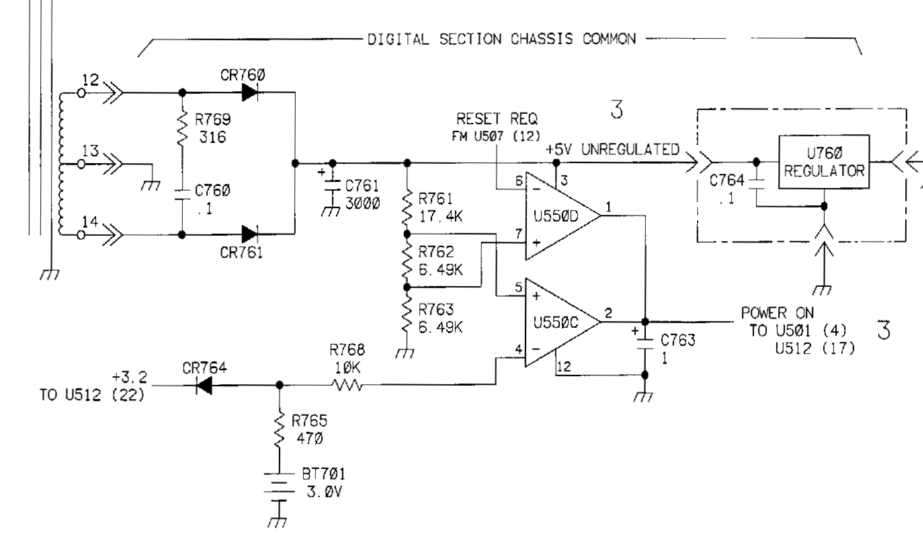
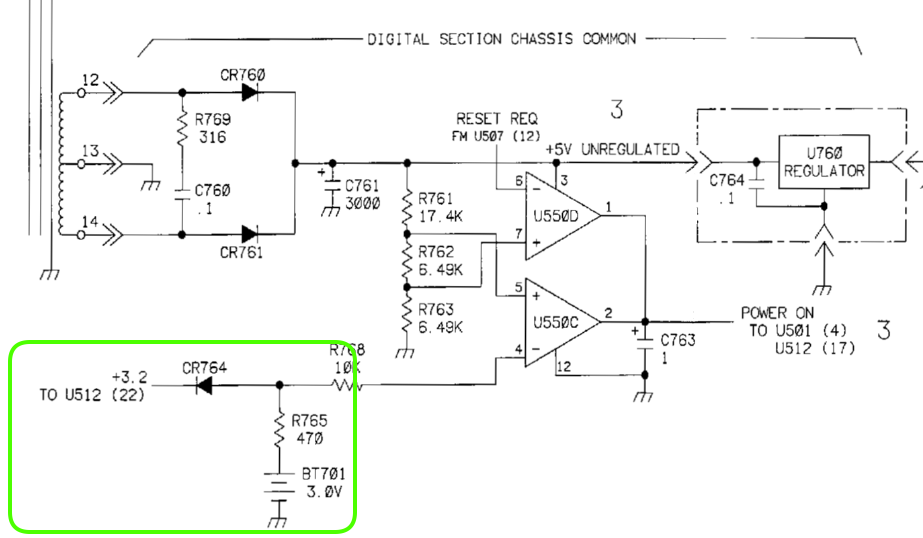
Capacitor replacement. WIP.

Changed region(s): [[0.0, 0.6245, 0.3944, 1.0]]

diff --git a/_drafts/2022-12-02-HP3478A-Multimeter.md b/_drafts/2022-12-02-HP3478A-Multimeter.md
@@ -1,6 +1,6 @@
 ---
 layout: post
-title: HP 3478A Multimeter RIFA Capacitors and Battery Replacement
+title: HP 3478A Multimeter Calibration Data Backup and Battery Replacement
 date:  2022-12-02 00:00:00 -1000
 categories:
 ---
@@ -11,24 +11,35 @@ categories:
 # Introduction
 
 Just a bit of a year ago, I wrote a blog post about 
-[repairing an HP 3478A multimeter with a hacksay](/2021/11/26/HP3478A-Multimeter-Repair-with-a-Hacksaw.html).
-After posting a link on Twitter, alex commented that I should 
+[repairing an HP 3478A multimeter with a hacksaw](/2021/11/26/HP3478A-Multimeter-Repair-with-a-Hacksaw.html).
+After posting a link on Twitter, @alex commented that I should 
 [replace the RIFA capacitors](https://twitter.com/geekc64os/status/1464331326652395530?s=20&t=WQFQvTtJkUr7HXN0EoEWgg)
 because they have a tendency to go up in smoke:
 
 ![Tweet about replacing RIFA capacitors](/assets/hp3478a/replace_rifa_caps_tweet.png)
 
 The multimeter went back on the shelve, but I have now some projects in mind where I could 
-use some continuous voltage recording. So now is a good time to replace the capacitors.
+use some continuous voltage recording. Now is a good time to replace the capacitors. 
 
-Another weak spot of the 3478A is that fact that calibration parameters are stored in a SRAM that's
-permanentely powered on by a long-lasting 3V Lithium battery.  There's no explicit production
-date on my unit, but a bunch of chips were produced in 1988, so after almost 34 years, I
+Another weak spot of the 3478A is that fact that calibration parameters are stored in a voltatile 
+SRAM that's permanentely powered on by a long-lasting 3V Lithium battery. There's no explicit 
+production date on my unit, but a bunch of chips were produced in 1988, so after almost 34 years, I
 might as well replace that one too.
 
 There is quite a bit of information on the web about how to do this, though some info is
 buried in long forums threads on EEVBlog or (long winded) Youtube videos. This blog post
 tries to bring some of the information together.
+
+# Replacing the Capacitors
+
+There's really not a whole lot to write about this: I bought 
+2 [B32021A3102K000](https://www.digikey.com/en/products/detail/epcos-tdk-electronics/B32021A3102K000/3489458)
+and 2 [B32022A3223M000](https://www.digikey.com/en/products/detail/epcos-tdk-electronics/B32022A3223M000/1648111)
+capacitors, desoldered the old ones, and replaced them.
+
+[![Capacitors on Digikey](/assets/hp3478a/capacitors_on_digikey.png)](/assets/hp3478a/capacitors_on_digikey.png)
+
+
 
 # HP 3478A Calibration Data Backup, Format, and Restore
 
@@ -251,17 +262,98 @@ with spot welded contacts:
 ![BR-2/3AE5SPN battery](/assets/hp3478a/br-23ae5spn.png)
 
 An alternative is to use a battery with wires, as in [this on Youtube](https://www.youtube.com/watch?v=e-itiJSftzs). 
-It has the benefit over being able to wrap the battery in a plastic so that leaks won't destroy the PCB, but then 
-you need a way to fix the battery in place somewhere.
+It has the benefit over being able to wrap the battery in a plastic so that battery leaks won't destroy the PCB, 
+but then you need a way to fix the battery in place somewhere.
 
 ![battery with wires](/assets/hp3478a/battery_with_wires.png)
 
 I mistakenly ordered the BR-2/3A battery without the pin contacts. Luckily, I bought one of those $40 spot
 welders and was able to create contact myself. 
 
-# Replacing the Battery
+# SRAM Power Circuit
+
+Let's have a look at the [service manual](assets/hp3478a/hp-3478a-Service.pdf) and check out how
+the SRAM is powered.
+
+![schematic of battery circuit](/assets/hp3478a/battery_circuit.png)
+
+On page 156, marked in green, you can see the battery itself (BT701), a resistor and a diode. I don't quite
+understand why you'd put a resistor in series with a battery, but when the main power is switched
+off, there's no resistive path to ground, so it shouldn't matter, especially when the standby current of
+the SRAM is only 10uA:
+
+![SRAM standby current](/assets/hp3478a/uPD5101L_standby_current.png)
+
+The diode is important though: it prevents current from going from the 5V rail to the 3V battery
+when the main power is switched on.
+
+Meanwhile, on page 154, the SRAM itself is U512. Once again, you can see the power supply area in green:
+
+![schematic of calibration RAM logic](/assets/hp3478a/calibration_ram.png)
+
+We can see another diode, this time between the SRAM and the +5V supply. This diode
+exists to prevent current flowing from the 3V battery to 5V power rail when the main
+power is off.
+
+When you pull everything together, the schematic looks like this:
+
+![SRAM power schematic](/assets/hp3478a/sram_power_schematic.png)
+
+This is all very conventional.
+
+# Swapping the Battery
+
+If you want to swap the battery with a new one, these are your options:
+
+* The obvious way: Back up calibration data. Unplug the power cable. Desolder old battery. 
+  Solder new battery. Restore calibration data.
+
+    With his method, you need that GPIB interface to read and write the calibration data.
+
+    Or do you? 
+
+    I went this route **and didn't need to restore the calibration data!** I've seen similar reports
+    online. I'm speculating that there's sufficient charge in capacitor C510 to keep the SRAM from
+    losing its contents?
+
+* The dangerous way: replace the battery while the whole device is switched on.
+
+    This way, the 5V power rail stays on as well and the SRAM won't lose its contents. 
+
+    This method is dangerous for 2 reasons: you'll be soldering on a device with active 110V or
+    220V AC. For me, that reason enough to not consider this option.
+
+    Another issue is that the heating tip of almost all soldering irons is connected to ground. When
+    the multimeter is plugged in as well, this can result in a short when you accidentally touch
+    some random contacts with the soldering iron. So you should use one that isn't plugged into a
+    regular power socket: there are irons that are heated with butane gas, or you could use one
+    that's powered by a USB power bank.
+
+    I wouldn't do it...
+
+* The intermediate way: use an additional, temporary 3V battery to keep the SRAM powered on.
+
+    This the way to go if you don't have a GPIB interface.
+
+    Put 2 AA or AAA batteries in a dual battery cage to create an additional 3V, add yet another diode,
+    and temporarily(!) solder it to PCB.
+
+    The schematic of the updated contraption looks like this:
+
+    ![circuit with extra battery](/assets/hp3478a/extra_battery_circuit.png)
+
+    The SRAM only needs 2V for data retention while in standby mode, so any diode with a forward
+    voltage of less than 1V should work. If you don't have any such diode in your toolbox,
+    just add a few $0.10 [1N4148 diodes](https://www.digikey.com/en/products/detail/onsemi/1N4148/458603) to 
+    your Digikey shopping list. 
+
+    There are plenty of places to solder the ground. The easiest place to solder the cathode
+    of the new diode is at the cathode of CR500:
 
 
+    [This blog post by Mr. Modemhead](http://mrmodemhead.com/blog/hp-3468a-battery-replacement/) 
+    combines the last two methods for redundancy on a similar but-no-quite-the-same HP 3468A
+    multimeter.
 
 
 
@@ -274,9 +366,7 @@ welders and was able to create contact myself.
 * [hp3478a-calibration](https://github.com/steve1515/hp3478a-calibration)
 * [HP3478A instrument control software](https://mesterhome.com/gpibsw/hp3478a/index.html)
 
-![schematic of calibration RAM logic](/assets/hp3478a/calibration_ram.png)
 
-![schematic of battery circuit](/assets/hp3478a/battery_circuit.png)
 
 
 # Various
@@ -297,7 +387,6 @@ welders and was able to create contact myself.
     "3478 are not bad but they are virtually unrepairable if they break. Especially the display is unobtainium..."
 
 * [Service Manual](http://www.arimi.it/wp-content/Strumenti/HP/Multimetri/hp-3478a-Service.pdf)
-* [Battery replacement article](http://mrmodemhead.com/blog/hp-3468a-battery-replacement/)
 
 * [Boat Anchor Manual Archive](https://bama.edebris.com)
 
